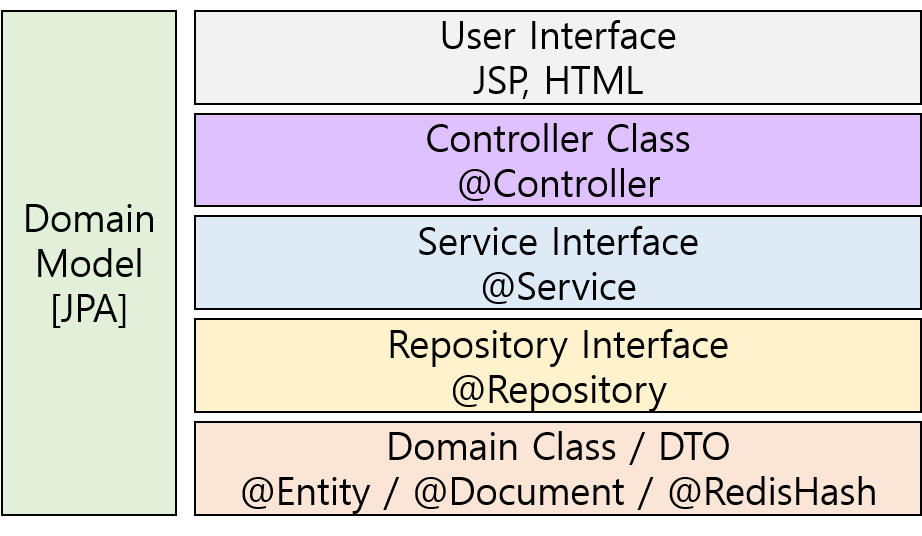
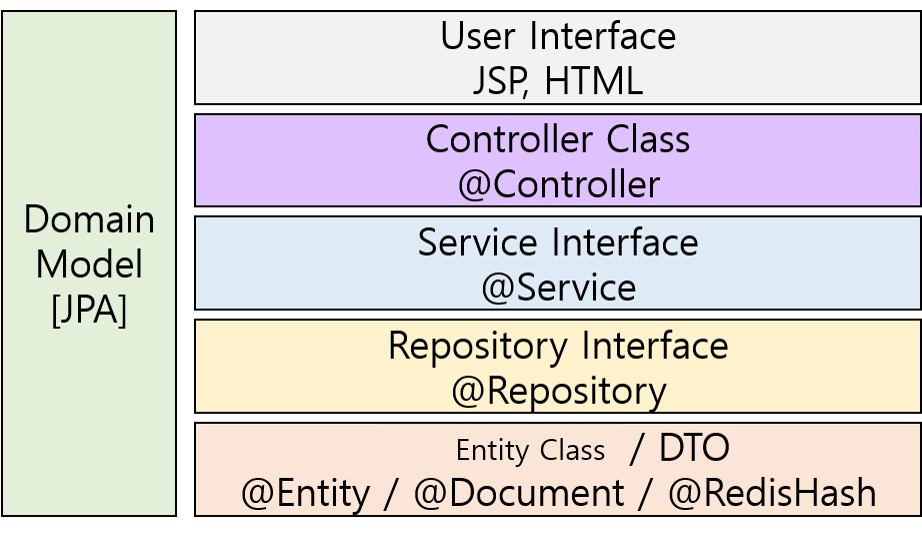
Update Spring_Web_MVC 작동순서 상세 추가, Domain Model 개념 추가

diff --git a/Application_Computer_Science/2_Spring_Framework/01_Spring_Web_MVC.md b/Application_Computer_Science/2_Spring_Framework/01_Spring_Web_MVC.md
@@ -25,13 +25,13 @@ View에서 데이터를 이용해 사용자에게 화면을 보여줄 때 요구
 
 > 소프트웨어의 비쥬얼을 담당하는 개념
 
-`Spring Web MVC`에서 쓸 User Interface(`HTML`, `JSP`, `JSTL` etc.)를 이용해 Model를 이용해 가공된 데이터를 보여주는 역할과 사용자가 Controller에게 요구 사항을 보내서 처리하도록 지시할 수 있게 만드는 역할을 한다. View는 여러 개가 존재할 수 있다. 최근에는 JSP 이외에도 JavaScript Singled Page Application을 더욱 쓰는 추세로 앞으로도 이의 기반에 맞춘 언어들(`TypeScript`, `JSX` etc.)이 증가하고 있다. 
+`Spring Web MVC`에서 쓸 User Interface(`HTML`, `JSP`, `JSTL` etc.)에 Model에 포함된 가공된 데이터를 전달하는 역할과 사용자가 Controller에게 요구 사항을 보내서 처리하도록 지시할 수 있게 만드는 역할을 한다. View는 여러 개가 존재할 수 있다. 최근에는 JSP 이외에도 JavaScript Singled Page Application을 더욱 쓰는 추세로 앞으로도 이의 기반에 맞춘 언어들(`TypeScript`, `JSX` etc.)의 소비가 증가하고 있다. 
 
 ### Controller
 
 > 소프트웨어의 카운터를 담당하는 개념
 
-View에는 여러 개의 Controller를 함유하고 있다. 사용자가 View에서 보여진 데이터를 변경하기 위해서는 Controller를 꼭 거쳐야 가능하다. Controller에게 전달 받은 요구 사항을 통해 Model의 상태가 바뀌게 된다면 등록된 View에 자기 자신이 바뀌었다는 사실을 알리고 View는 Model에서 최근에 변경된 데이터를 반영해서 보여준다.
+View는 여러 개의 Controller를 통해 호출할 수 있다. 사용자가 View에서 보여진 데이터를 변경하기 위해서는 Controller의 요청 URL를 꼭 거쳐야 된다. Controller에게 전달 받은 요구 사항을 통해 Model의 상태가 바뀌게 된다면 등록된 View에 자기 자신이 바뀌었다는 사실을 알리고 View는 Model에서 최근에 변경된 데이터를 반영해서 보여준다.
 
 ## Structure of Spring Web MVC
 
@@ -41,16 +41,114 @@ Spring Web MVC의 구조는 위와 같이 나뉘게 된다. 위와 같은 Patter
 
 **Spring Web MVC의 작동 순서**
 > 1. Client(Web Browser)에서 URL를 요청한다.
-> - 요청 URL를 DispatcherServlet에서 읽어들인다.
+> - 요청 URL를 DispatcherServlet에서 전달 받아 읽어 들인다.
+>
 > 2. 요청 URL과 매핑되는 Controller를 검색한다.
-> - @RequestMapping, @GetMapping, @PostMapping 등에 기재된 요청 URL를 검색한다.
+> - `@RequestMapping`, `@GetMapping`, `@PostMapping` 등에 기재된 요청 URL를 이용해서 검색한다.
+>
 > 3. Controller에 처리 요청한다.
+> - 요청 종류(GET, POST, PUT, DELETE etc.)에 따라서 차별화를 두고, HTTP Status(OK(200), NO CONTENT(204), NOT FOUND(404), CREATED(201) etc.)를 데이터 처리 상황에 맞춰서 동시에 반환한다.
+>
 > 4. ModelAndView 아니면 View의 실존 주소를 반환한다.
+> - 모든 View를 참고할 때에는 `application.properties` 파일에 설정해두고 난 후에 views 파일 아래에 있는 상대 주소를 기준으로 View를 불러야 한다.
+>
+>   ```
+>   spring.mvc.view.prefix=/WEB-INF/views/ 
+>   spring.mvc.view.suffix=.jsp
+>   ... 생략 ...
+>   ```
+> 
+>   `application.properties` 에서 View의 상대 주소를 쓸 Prefix 주소와 Suffix(확장자)를 설정한 일부 문장이다.
+> 
+>   ```
+>   webapp
+>   L res
+>   |-- common.js
+>   |-- common.css
+>   L WEB-INF
+>     L views
+>       L student
+>       |-- list.jsp
+>       |-- edit.jsp
+>       L department
+>       |-- list.jsp
+>       |-- create.jsp
+>   ```
+>
+>   `WEB-INF/views`는 webapp 폴더 바로 안에 포함이 되어 있어야 View로 이용할 수 있다.
+>
+> **View의 실존 주소 방식은 다음과 같이 적용한다.**
+>   ```
+>   @Autowired StudentService studentService;
+>   @GetMapping("student/list")
+>   public String studentList(Model model){
+>       model.addAttribute("students", studentService.findAll());
+>       return "student/list";
+>   }
+>   ```
+> - Model에 students 이름을 가진 데이터는 현재 데이터베이스에서 학생 목록들을 조회한 모든 데이터 결과를 보관하고, 위의 파일 목록을 기준으로 /WEB-INF/views/student/list.jsp 는 현재 Model에 포함된 students 데이터에 대한 표출 기능을 추가해야 한다. 
+> - 또한 Model의 데이터에 따른 View의 논리를 설정할 때 자체 내부에서 JSTL 문을 이용하여 설정해야 하는데 여기서 View의 신뢰성이 떨어질 수 있다.
+>
+> **ModelAndView 방식은 다음과 같이 적용한다.**
+>   ```
+>   @Autowired StudentService studentService;
+>   @GetMapping("student/list")
+>   public ModelAndView studentList(){
+>       ModelAndView modelAndView = new ModelAndView();
+>       mv.addObject("students", studentService.findAll());
+>       mv.setViewName("/student/list");
+>       return modelAndView;
+>   }
+>   ```
+> - 방금 실존 주소를 이용한 방법과 별 차이는 없어 보이지만, ModelAndView 객체에 View에서 보여줄 Model 데이터와 View 주소 이름을 설정을 하여 객체로 반환하는 특징을 보여줄 수 있다. 
+> - View에 대한 논리를 설정할 때 Controller에서 처리할 수 있게 되면서 View의 신뢰성을 증대시킬 수 있다.
+> 
 > 5. Controller의 실행 결과를 보여줄 View를 검색한다.
+> - 여기서 검색한다는 뜻은 `application.properties`를 통해 설정한 Prefix와 Surfix를 조합하여 그 View의 페이지로 이동한다는 의미로 생각하면 된다.
+>
 > 6. 최종적으로 Model를 정리해서 View에 보여준다.
+> - View에서 Model의 데이터를 정리할 때에 EL(Expression Language), JSTL(JSP Standard Tag Library)를 대부분 이용한다.
 
+## Domain Model Structure
+우리가 객체 지향 프로그래밍을 이용해서 일상에 필요한 시스템을 소프트웨어에 반영하기 위해서 기초적으로 다뤄야 하는 것이 Domain Model을 제대로 설계하는 것이다. 
+
+Domain Driven Design(DDD)의 핵심은 Domain 내 여러 업무 정의나 문제를 Model로 잘 표현하고 이를 바탕으로 구현하기 쉽게 이해할 수 있는 구조로 정의되어 있는 것이 주름 잡는다고 볼 수 있다. DDD 3가지 요구사항은 아래와 같다.
+
+- Model과의 핵심 설계는 상호 영향을 주고 받으며 구체화 되어야 한다.
+- Model은 모든 팀 구성원들이 사용하는 언어를 기반으로 작성되어야 한다.
+- Model은 불순물을 걸러낸 핵심 지식만 포함되어야 한다.
+
+Domain Model에서 구현 패턴은 다양하게 존재하는데 일반적으로 사용하는 패턴은 Entity 기반 모델을 정의하는 패턴을 이용한다. Spring Framework에서도 적용이 가능하다. 이를 기준으로 작성한 Domain Model의 구조는 아래와 같다.
 
 ![domain_class](/Application_Computer_Science/2_Spring_Framework/img/domain_class.png)
+
+Spring Web MVC에서 쓰이는 Domain Model의 구조는 위처럼 유지하는 것을 권장한다. 각 개념이 무슨 의미를 가지는지 어노테이션과 함께 작성해보도록 하겠다.
+
+- Entity Class (`@Entity`, `@Document`, `@RedisHash`)
+    - Database ER Model에서 Table에 해당되는 객체. MongoDB에서는 Document 단위. Redis에서는 RedisHash 단위를 이용.
+    - 데이터베이스에 있는 데이터 속성에 따라 가공할 수 있는 클래스를 명시한다.
+    - 무조건 Database에 있는 속성을 그대로 복붙한다고 생각하면 안 되고, Java에서 가공 가능한 속성들을 묶어서 정리하는 의미로 받아 들여야 한다.
+    - Entity 클래스에서 쓰는 다양한 Annotation은 `Spring Data JPA`에서 차차 다루도록 하겠다.
+
+- Value Object Class (특별한 어노테이션은 없다.)
+    - 식별성이 아닌 속성을 이용해 정의되는 불변 객체이다.
+    - 식별성을 부여하고 Entity로 관리하면 복잡성이 증대된다.
+    - 식별성이 있다면 Entity, 아니면 Value Object로 구분된다.
+
+- Repository Interface (`@Repository`)
+    - Domain 영역과 Infrastructure 계층에 대해 분리하여 데이터 계층에 대한 결합도를 낮추기 위해 쓰이는 Interface이다.
+    - 생성된 Domain Object에 대한 Persistence를 향상시키고, CRUD(Create, Read, Update, Delete) 작업에 대한 일관성을 유지한다.
+    - Database에 현존하는 데이터의 CRUD를 요구할 때 사용한다.
+
+- Service Interface (`@Service`)
+    - Domain Object에서 위치시키기 어려운 Operation을 가지는 객체이다.
+    - 특히 여러 Domain Object를 다루는 연산에 대하여 적용을 많이 하는데 이러한 Operation은 일반적으로 Stateless(무상태) Operation으로 남게 되는데 Cache에서 데이터 조회를 할 때 임시 데이터를 저장하는 면에선는 Stateless Operation을 권장하고 있다.
+    - Domain Object에 해당되는 역할을 Service의 Operation으로 만든다면 Domain 역할을 침범하게 되어 강결합이 발생하게 된다.
+
+- Controller Class (`@Controller`)
+    - Client로부터 전달된 데이터를 RequestMapping을 이용해서 가공을 할 수 있게 도와주는 최전방 계층.
+    - Controller에서는 Service에게, Service에서는 DAO or Repository에게, DAO or Repository는 DTO or Domain Class에게 요청하는 순서를 꼭 적용해야 한다.
+    - Controller 클래스에서 곧바로 Repository 인터페이스를 이용하는 것은 간단하게 공부하기 위한 예제에서 적용할 수는 있지만, 실무에서 키보드로 맞을 수 있으니 되도록이면 자제하도록 하자.
 
 ## Front-Controller Pattern
 
@@ -84,8 +182,11 @@ Front-Controller Pattern의 장점으로는 모든 요청에 대해 하나의 Co
 
 
 ## References
-- https://ko.wikipedia.org/wiki/%EB%AA%A8%EB%8D%B8-%EB%B7%B0-%EC%BB%A8%ED%8A%B8%EB%A1%A4%EB%9F%AC - MVC Pattern Basic Issues
+- https://ko.wikipedia.org/wiki/%EB%AA%A8%EB%8D%B8-%EB%B7%B0-%EC%BB%A8%ED%8A%B8%EB%A1%A4%EB%9F%AC - MVC Pattern 기본 개념
 - http://addio3305.tistory.com/41 - Spring Web MVC Structure
 - http://qwefgh90.github.io/sphinx/spring/spring_web_mvc.html - Spring Web MVC 작동 원리를 자세하게 작성한 글
 - https://nesoy.github.io/articles/2017-02/Front-Controller - Front-Controller에 대한 설명 참고
-- https://docs.spring.io/spring/docs/current/spring-framework-reference/web.html - Spring Web MVC Tutorial 영문 참고
+- https://docs.spring.io/spring/docs/current/spring-framework-reference/web.html - Spring Web MVC 공식 Tutorial
+- http://ande226.tistory.com/101 - ModelAndView 객체 사용 방법
+- http://yellowh.tistory.com/109 - Domain Model에 대한 Annotation 참조
+- http://cyberx.tistory.com/57 - Domain Model 기본 개념을 참고하기 좋은 페이지

diff --git a/Application_Computer_Science/2_Spring_Framework/02_Spring_Data_JPA.md b/Application_Computer_Science/2_Spring_Framework/02_Spring_Data_JPA.md
@@ -1,0 +1,7 @@
+# Spring Data JPA Issues
+이번에는 `Spring Data JPA`에서 짚고 넘어가야 하는 Issue에 대해 공부하기 위한 노트를 만들도록 하겠다.
+
+Spring Data JPA만 쓰는 개발자들은 SQL Query에 대해 확답할 수 없다는 부족함이 생길 수 있기 때문에 JPA만 쓰지 말고 MyBatis를 이용해서 Query 문장을 꼭 연습하도록 하자.
+
+## References
+- https://docs.spring.io/spring-data/jpa/docs/2.0.7.RELEASE/reference/html/ - Spring Data JPA 공식 Tutorial
